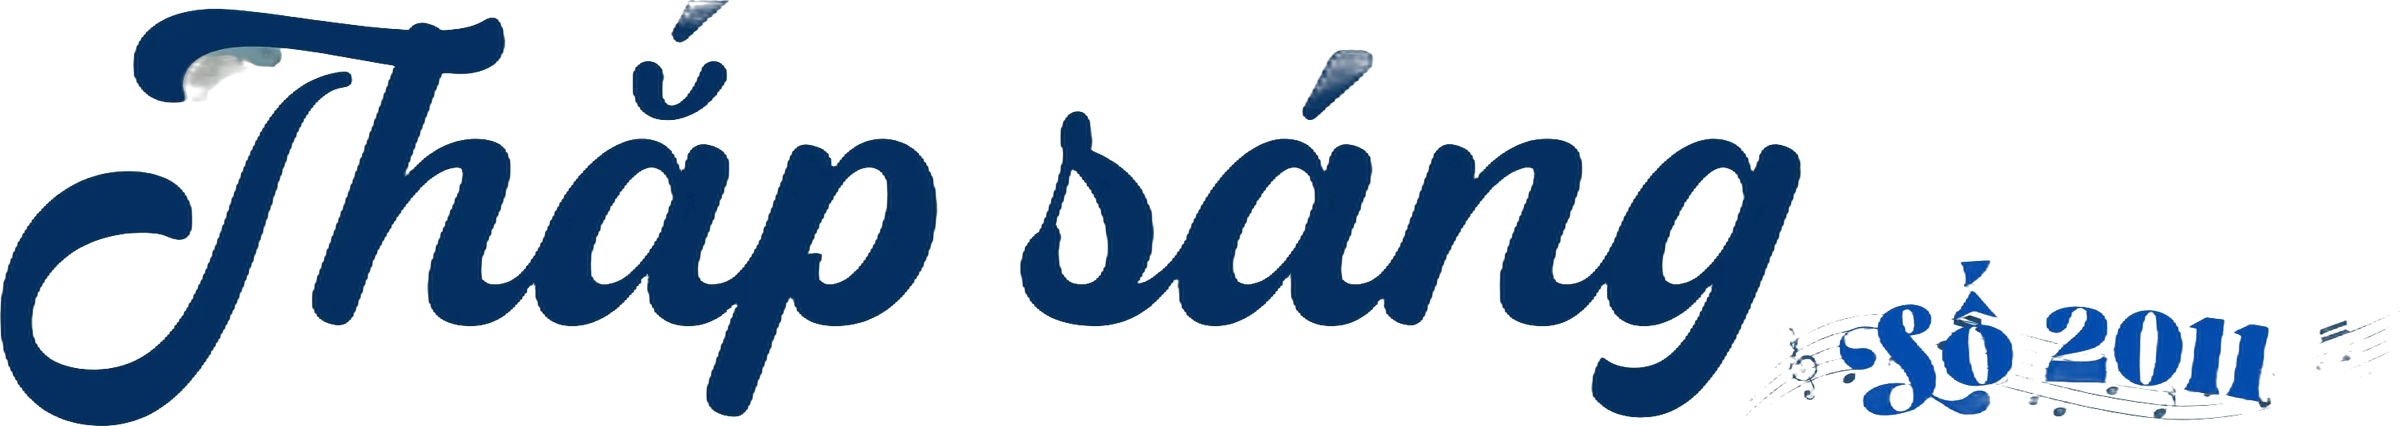
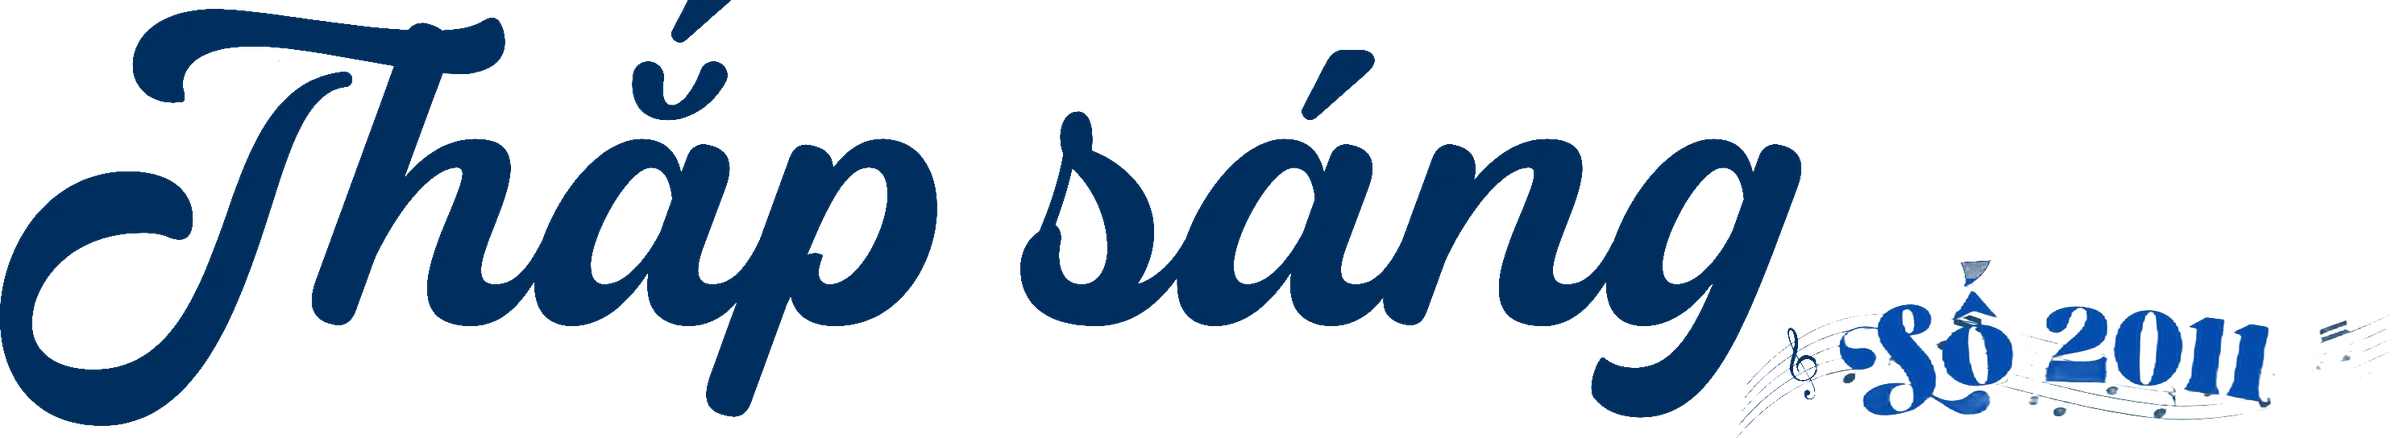
Add cover home page

diff --git a/src/home.css b/src/home.css
@@ -1,0 +1,192 @@
+/*
+ * Cover home page. Every size is a multiple of --u, one unit of a virtual
+ * canvas that always fits the viewport:
+ *   landscape: 100u × 56.25u (16:9)  → --u = min(1vw, 1.7778vh)
+ *   portrait:  100u × 216.7u (9:19.5) → --u = min(1vw, 0.4615vh)
+ * The centre column (title + cards) sits on that canvas; decorations are
+ * pinned to the viewport edges so wider screens just show more sky and sea.
+ */
+.home {
+  --u: min(1vw, 1.7778vh);
+  --sea-h: calc(var(--u) * 8.5);
+  --navy: #1f3f8f;
+  --red: #c0392b;
+
+  position: relative;
+  height: 100svh;
+  overflow: hidden;
+  isolation: isolate;
+  background:
+    linear-gradient(to bottom, rgb(194 214 223 / 0.9), rgb(194 214 223 / 0) 45%),
+    linear-gradient(rgb(236 224 204 / 0.45), rgb(236 224 204 / 0.45)),
+    url('./assets/cover/paper-tile.webp') center top / calc(var(--u) * 34) auto repeat,
+    #e9dcc6;
+}
+
+/* ---------- centre column ---------- */
+
+.home__center {
+  position: absolute;
+  inset: 0 0 var(--sea-h) 0;
+  z-index: 2;
+  display: flex;
+  flex-direction: column;
+  align-items: center;
+  justify-content: center;
+  padding-top: calc(var(--u) * 0.5);
+  pointer-events: none; /* let clicks through the empty parts; cards re-enable */
+}
+
+.home__heading {
+  margin: 0;
+  display: flex;
+  flex-direction: column;
+  align-items: flex-end;
+}
+
+.home__title {
+  width: calc(var(--u) * 52);
+  height: auto;
+}
+
+.home__subtitle {
+  margin: calc(var(--u) * 0.6) calc(var(--u) * 0.8) 0 0;
+  font-family: Georgia, 'Times New Roman', serif;
+  font-size: calc(var(--u) * 1.55);
+  font-weight: 400;
+  line-height: 1.2;
+  color: #1d1d1f;
+  white-space: nowrap;
+}
+.home__subtitle .n { color: var(--navy); }
+.home__subtitle .r { color: var(--red); }
+
+.home__cards {
+  margin-top: calc(var(--u) * 2);
+  display: grid;
+  grid-template-columns: repeat(2, calc(var(--u) * 11.5));
+  gap: calc(var(--u) * 1.4) calc(var(--u) * 2);
+  align-items: center;
+  justify-items: center;
+  pointer-events: auto;
+}
+
+.home__card {
+  display: block;
+  width: 100%;
+  padding: 0;
+  border: 0;
+  background: none;
+  cursor: pointer;
+  border-radius: calc(var(--u) * 0.3);
+}
+.home__card img {
+  width: 100%;
+  height: auto;
+  filter: drop-shadow(0 calc(var(--u) * 0.35) calc(var(--u) * 0.6) rgb(0 0 0 / 0.28));
+  transition: transform 0.2s ease, filter 0.2s ease;
+}
+.home__card:hover img,
+.home__card:focus-visible img {
+  transform: translateY(calc(var(--u) * -0.3)) scale(1.02);
+  filter: drop-shadow(0 calc(var(--u) * 0.7) calc(var(--u) * 1) rgb(0 0 0 / 0.35));
+}
+.home__card:focus-visible {
+  outline: 3px solid var(--navy);
+  outline-offset: 4px;
+}
+
+/* ---------- decorations ---------- */
+
+.home__deco {
+  position: absolute;
+  height: auto;
+  pointer-events: none;
+  user-select: none;
+}
+
+.home__lighthouse {
+  left: 0;
+  bottom: calc(var(--u) * 2);
+  height: calc(var(--u) * 41.6);
+  width: auto;
+  z-index: 0;
+}
+
+.home__sea {
+  position: absolute;
+  inset: auto 0 0 0;
+  height: var(--sea-h);
+  z-index: 1;
+  background: url('./assets/cover/sea-tile.webp') left bottom / auto 100% repeat-x;
+  -webkit-mask-image: linear-gradient(to bottom, transparent, #000 40%);
+  mask-image: linear-gradient(to bottom, transparent, #000 40%);
+}
+
+.home__ship {
+  left: calc(var(--u) * 15);
+  bottom: calc(var(--u) * 0.3);
+  width: calc(var(--u) * 19);
+  z-index: 1;
+}
+
+.home__logos {
+  position: absolute;
+  right: calc(var(--u) * 1.2);
+  bottom: calc(var(--u) * 1.4);
+  width: calc(var(--u) * 13);
+  z-index: 1;
+  padding: calc(var(--u) * 0.35);
+  border-radius: calc(var(--u) * 0.6);
+  background: rgb(255 255 255 / 0.9);
+  box-shadow: 0 2px 8px rgb(0 0 0 / 0.15);
+}
+.home__logos img {
+  width: 100%;
+  height: auto;
+  border-radius: calc(var(--u) * 0.3);
+}
+
+.home__bird { z-index: 0; }
+.home__bird--1 { right: calc(var(--u) * 13); top: calc(var(--u) * 14); width: calc(var(--u) * 7); }
+.home__bird--2 { right: calc(var(--u) * 24); top: calc(var(--u) * 25); width: calc(var(--u) * 4.5); transform: scaleX(-1); }
+.home__bird--3 { left: calc(var(--u) * 19); top: calc(var(--u) * 19); width: calc(var(--u) * 5); transform: scaleX(-1); }
+
+/* ---------- portrait (phones, tablets held upright) ---------- */
+
+@media (max-aspect-ratio: 1/1) {
+  .home {
+    --u: min(1vw, 0.4615vh);
+    --sea-h: calc(var(--u) * 19.5);
+    background-size: auto, auto, calc(var(--u) * 60) auto, auto;
+  }
+
+  .home__center {
+    inset: 0;
+    justify-content: flex-start;
+    padding-top: calc(var(--u) * 6.5);
+  }
+
+  .home__title { width: calc(var(--u) * 92); }
+  .home__subtitle { font-size: calc(var(--u) * 3.8); margin-right: calc(var(--u) * 1.5); }
+
+  .home__cards {
+    margin-top: calc(var(--u) * 5);
+    grid-template-columns: repeat(2, calc(var(--u) * 41));
+    gap: calc(var(--u) * 4.5) calc(var(--u) * 5);
+  }
+
+  .home__lighthouse { bottom: calc(var(--u) * 6.5); height: calc(var(--u) * 54); }
+  .home__ship { left: auto; right: calc(var(--u) * 33); bottom: calc(var(--u) * 1); width: calc(var(--u) * 34); }
+  .home__logos { right: calc(var(--u) * 3); bottom: calc(var(--u) * 4.3); width: calc(var(--u) * 28); }
+
+  .home__bird--1 { right: calc(var(--u) * 8); top: auto; bottom: calc(var(--u) * 47); width: calc(var(--u) * 15); }
+  .home__bird--2,
+  .home__bird--3 { display: none; }
+}
+
+@media (prefers-reduced-motion: reduce) {
+  .home__card img { transition: none; }
+  .home__card:hover img,
+  .home__card:focus-visible img { transform: none; }
+}

diff --git a/src/Home.tsx b/src/Home.tsx
@@ -1,0 +1,56 @@
+import bird from './assets/cover/bird.webp'
+import lighthouse from './assets/cover/lighthouse.webp'
+import logos from './assets/cover/logos.webp'
+import ship from './assets/cover/ship.webp'
+import title from './assets/cover/title.webp'
+import './home.css'
+import { sections } from './sections'
+
+type HomeProps = {
+  onOpen: (index: number) => void
+}
+
+export default function Home({ onOpen }: HomeProps) {
+  return (
+    <main className="home">
+      <img className="home__deco home__bird home__bird--1" src={bird} alt="" />
+      <img className="home__deco home__bird home__bird--2" src={bird} alt="" />
+      <img className="home__deco home__bird home__bird--3" src={bird} alt="" />
+      <img className="home__deco home__lighthouse" src={lighthouse} alt="" />
+      <div className="home__sea" aria-hidden="true" />
+      <img className="home__deco home__ship" src={ship} alt="" />
+      <div className="home__logos">
+        <img src={logos} alt="KDI Education và KDC Education" />
+      </div>
+
+      <div className="home__center">
+        <h1 className="home__heading">
+          <img className="home__title" src={title} alt="Thắp sáng – Số 2011" fetchPriority="high" />
+          <span className="home__subtitle">
+            Ấn phẩm của <span className="n">L</span>
+            <span className="r">2</span>
+            <span className="n">T</span> <span className="r">N</span>
+            <span className="n">E</span>
+            <span className="r">W</span>
+            <span className="n">S</span>
+          </span>
+        </h1>
+
+        <nav className="home__cards" aria-label="Các mục">
+          {sections.map((section, i) => (
+            <button
+              key={section.slug}
+              type="button"
+              className="home__card"
+              aria-label={section.title}
+              data-slug={section.slug}
+              onClick={() => onOpen(i)}
+            >
+              <img src={section.card} alt="" />
+            </button>
+          ))}
+        </nav>
+      </div>
+    </main>
+  )
+}

diff --git a/index.html b/index.html
@@ -4,8 +4,8 @@
     <meta charset="UTF-8" />
     <link rel="icon" type="image/svg+xml" href="/favicon.svg" />
     <meta name="viewport" content="width=device-width, initial-scale=1.0" />
-    <meta name="theme-color" content="#0a0a0a" />
-    <title>Slides</title>
+    <meta name="theme-color" content="#c2d6df" />
+    <title>Thắp sáng – L2T NEWS</title>
   </head>
   <body>
     <div id="root"></div>

diff --git a/src/App.tsx b/src/App.tsx
@@ -1,4 +1,6 @@
-// Temporary stub while the home page and popup are built (Tasks 3–4).
+import Home from './Home'
+
+// Temporary: popup wiring arrives in Task 4.
 export default function App() {
-  return null
+  return <Home onOpen={() => {}} />
 }

diff --git a/scripts/extract-cover.py b/scripts/extract-cover.py
@@ -12,7 +12,7 @@ import argparse
 from pathlib import Path
 
 import numpy as np
-from PIL import Image, ImageOps
+from PIL import Image, ImageFilter, ImageOps
 from rembg import new_session, remove
 
 # Boxes are measured on a 795px-wide preview of the cover and scaled to the
@@ -87,13 +87,29 @@ def card_cutout(region: Image.Image, session) -> Image.Image:
 
 
 def title_cutout(region: Image.Image, session) -> Image.Image:
-    out = remove(region, session=session)
-    a = np.asarray(out.getchannel("A")).astype(float)
-    # Faded copies (the "Ấn phẩm…" line, the drop shadow) come back half
-    # transparent; keep only the solid lettering.
-    a = np.clip((a - 150) * 255 / 105, 0, 255)
-    h, w = a.shape
+    rgb = np.asarray(region).astype(float)
+    rembg_a = np.asarray(remove(region, session=session, only_mask=True)).astype(float)
+    h, w = rembg_a.shape
+    # "Số 2011" (bottom right) has its own gradient and music notes: keep
+    # rembg's matte there, minus the half-transparent ghost of the "Ấn phẩm…"
+    # line that sat beneath it.
+    a = np.clip((rembg_a - 150) * 255 / 105, 0, 255)
+    # "Thắp sáng" is one flat navy on light sky. rembg leaves holes in the
+    # accents, so key that lettering by colour instead, limited to a dilated
+    # rembg mask (keeps stray dark text elsewhere in the box out), and paint
+    # it the flat navy so blended edge pixels don't look washed out.
+    words = np.zeros((h, w), dtype=bool)
+    words[:, : int(w * 0.76)] = True
+    words[: int(h * 0.5), :] = True
+    navy = np.median(rgb[words & (rembg_a > 250)], axis=0)
+    near = Image.fromarray((rembg_a > 40).astype(np.uint8) * 255).filter(ImageFilter.MaxFilter(41))
+    dist = np.linalg.norm(rgb - navy, axis=2)
+    keyed = np.clip((115 - dist) / 65, 0, 1) * 255 * (np.asarray(near) > 0)
+    a[words] = keyed[words]
     a[int(h * 0.83) :, int(w * 0.6) :] = 0  # strip where the subtitle sat
+    out_rgb = rgb.copy()
+    out_rgb[words] = navy
+    out = Image.fromarray(out_rgb.astype(np.uint8)).convert("RGBA")
     out.putalpha(Image.fromarray(a.astype(np.uint8)))
     return out
 
